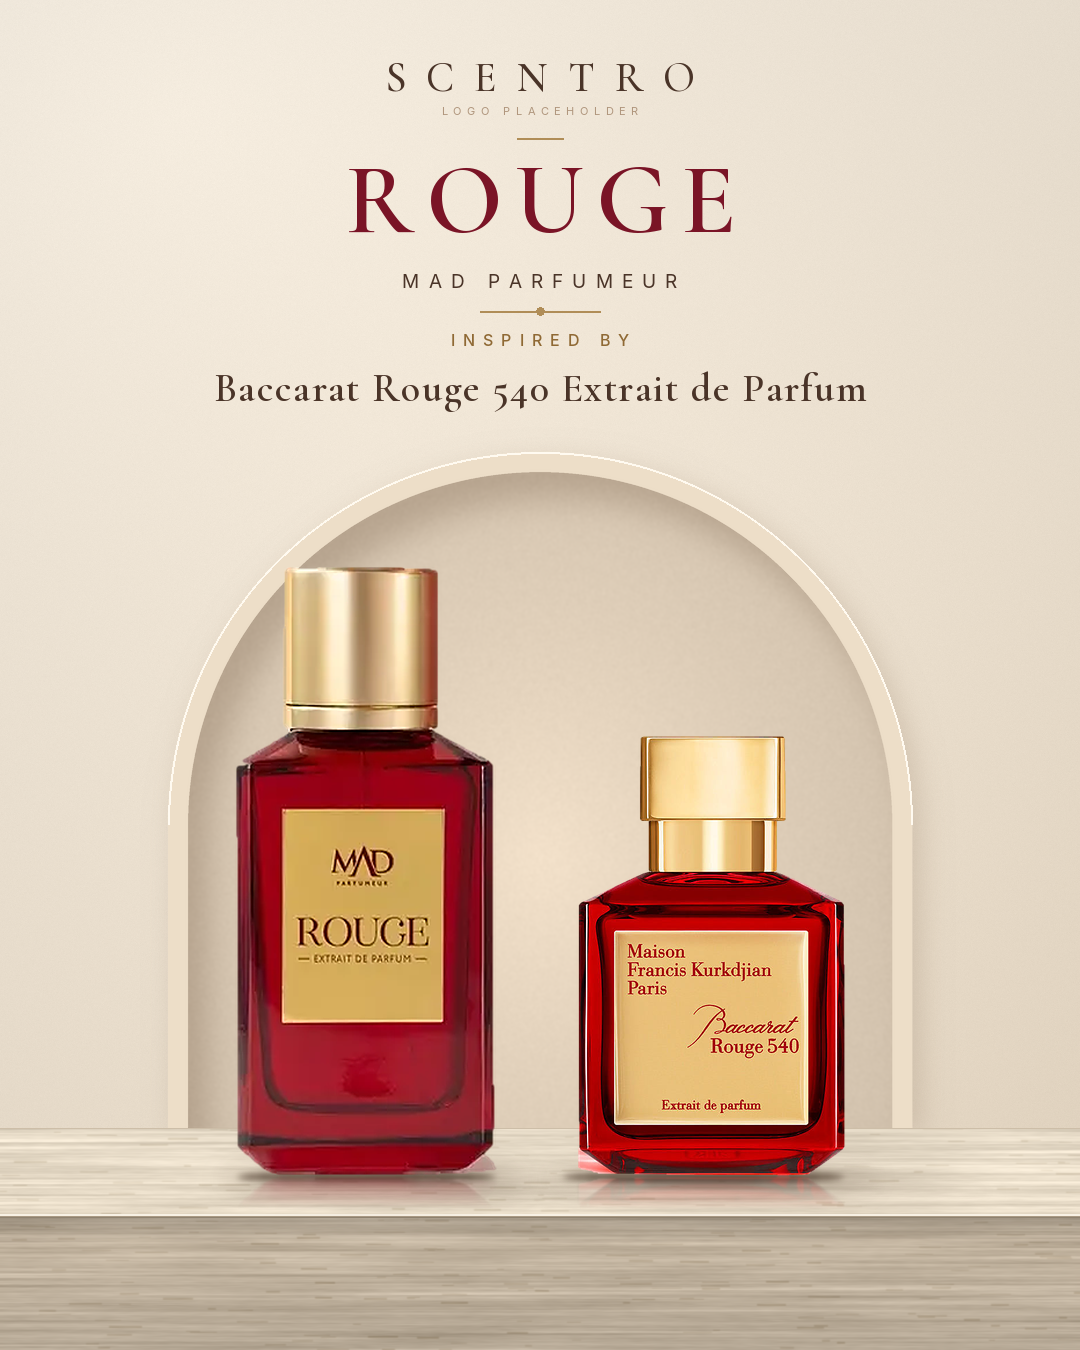
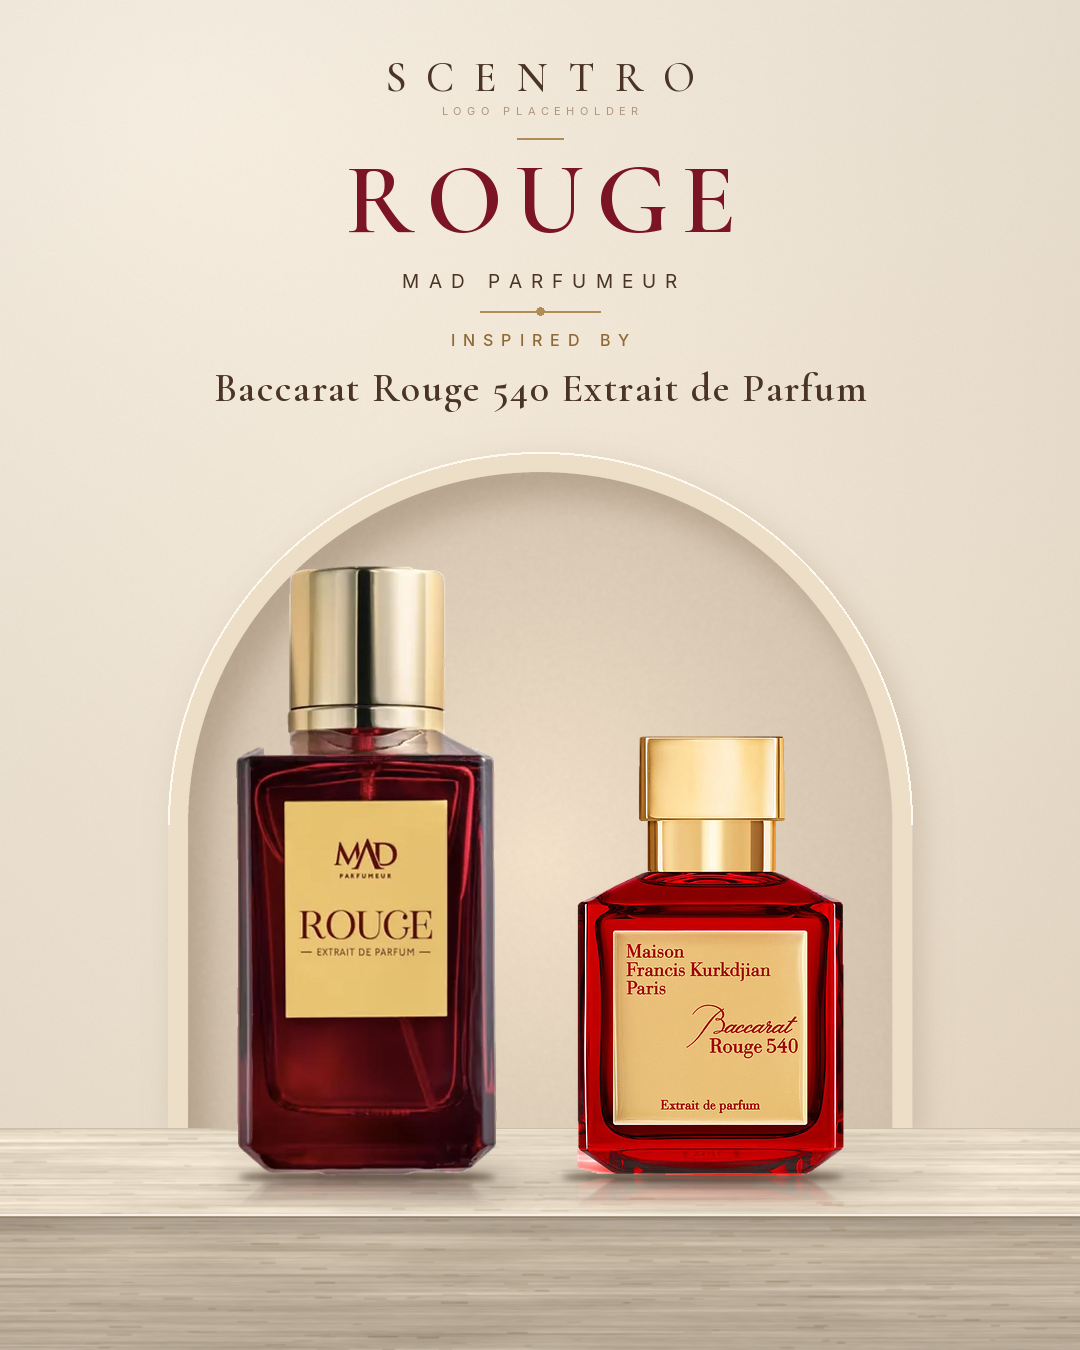
Use Fragrantica bottle photos for MAD Rouge/Treasure/Marjorie/Dreamlight; edge-based cutouts; Marjorie standard + framed variants
Claude-Session: https://claude.ai/code/session_01UApyk7Kdwc7MEVpfJtnJsr

diff --git a/scentro/build_slide.py b/scentro/build_slide.py
@@ -27,12 +27,12 @@ def S(title, mad, orig, inspired, title_rgb, bg_a, bg_b, niche_rgb, mad_h=640, o
 SLIDES = {
     1: S('ROUGE', 'mad_rouge', 'brx540_extrait', 'Baccarat Rouge 540 Extrait de Parfum', (122, 20, 38), (245, 237, 224), (231, 217, 197), (226, 209, 187), mad_h=610, orig_h=440, name_size=40),
     2: S('TREASURE', 'mad_treasure', 'naxos', 'Naxos', (142, 98, 34), (246, 238, 220), (233, 215, 186), (229, 208, 176), mad_h=600, orig_h=470, stone=(4, 0, -6)),
-    3: S('MARJORIE', 'mad_marjorie', 'guidance', 'Guidance', (148, 86, 92), (247, 240, 231), (237, 221, 213), (230, 208, 198), mad_h=600, orig_h=395, stone=(2, -2, -2),
-          photo=dict(src='assets/source/mad_marjorie_original.webp', crop=(245, 105, 595, 630), size=(450, 675))),
+    3: S('MARJORIE', 'mad_marjorie', 'guidance', 'Guidance', (148, 86, 92), (247, 240, 231), (237, 221, 213), (230, 208, 198), mad_h=610, orig_h=380, stone=(2, -2, -2),),
     4: S('EFFECT', 'mad_effect', 'side_effect', 'Side Effect', (104, 30, 38), (244, 235, 222), (229, 212, 194), (224, 202, 182), mad_h=610, orig_h=450),
     5: S('DREAMLIGHT', 'mad_dreamlight', 'attrape_reves', 'Attrape-Rêves', (126, 88, 130), (248, 242, 240), (236, 225, 232), (230, 214, 222), mad_h=560, orig_h=450, stone=(0, -2, 3)),
     6: S('FORZA', 'mad_forza', 'alexandria_ii', 'Alexandria II', (106, 74, 42), (245, 237, 223), (230, 215, 191), (226, 207, 178), mad_h=500, orig_h=470, stone=(2, 0, -3)),
 }
+SLIDES[31] = dict(SLIDES[3], photo=dict(src='assets/source/mad_marjorie_original.webp', crop=(245, 105, 595, 630), size=(450, 675)), mad_h=600, orig_h=395, out='output/slide3_marjorie_framed.png')
 
 rng = np.random.default_rng(11)
 
@@ -254,7 +254,7 @@ def photo_panel(s):
 # ---- build -----------------------------------------------------------------------------------------
 def build(n):
     s = SLIDES[n]
-    s['out'] = s['out'].format(n=n)
+    s = dict(s); s['out'] = s['out'].format(n=n)
     img = background(s)
     if not s['photo']:
         niche(img, s)

diff --git a/scentro/cutout_edge.py b/scentro/cutout_edge.py
@@ -1,0 +1,18 @@
+"""Edge-based cutout for bottles on plain backgrounds with soft cast shadows: sharp edges outline the bottle, soft shadows are ignored.
+Usage: cutout_edge.py in out lo hi [close_iter]"""
+import sys, numpy as np, cv2
+from PIL import Image
+from scipy import ndimage as ndi
+src, dst = sys.argv[1], sys.argv[2]; lo, hi = int(sys.argv[3]), int(sys.argv[4]); ci = int(sys.argv[5]) if len(sys.argv) > 5 else 9
+im = np.array(Image.open(src).convert('RGB')); g = cv2.cvtColor(im, cv2.COLOR_RGB2GRAY)
+g = cv2.GaussianBlur(g, (0, 0), 1.2)
+e = cv2.Canny(g, lo, hi) > 0
+e = ndi.binary_dilation(e, iterations=2)
+e = ndi.binary_closing(e, structure=np.ones((3, 3)), iterations=ci)
+m = ndi.binary_fill_holes(e)
+lab, n = ndi.label(m); sz = ndi.sum(m, lab, range(1, n + 1)); m = lab == 1 + int(np.argmax(sz))
+m = ndi.binary_erosion(m, iterations=3); m = ndi.binary_opening(m, structure=np.ones((3, 3)), iterations=6)
+m = ndi.binary_dilation(m, iterations=1)
+a = cv2.GaussianBlur(m.astype(np.float32), (0, 0), 1.0); a = np.clip((a - .25) / .5, 0, 1)
+ys, xs = np.where(a > .02); rgba = np.dstack([im, (a * 255).astype(np.uint8)])
+Image.fromarray(rgba).crop((xs.min(), ys.min(), xs.max() + 1, ys.max() + 1)).save(dst); print(dst, xs.max() - xs.min() + 1, ys.max() - ys.min() + 1)

diff --git a/scentro/README.md b/scentro/README.md
@@ -5,5 +5,6 @@
 - Fonts: Cormorant Garamond (OFL) + Inter.
 
 ## Original-bottle photo sources (commercial-reuse licence NOT verified)
-Rouge: zgoperfumery.com · Naxos: shoprescuespa.com · Guidance: parfumexquis.us · Side Effect: 4doutfitters.com ·
+MAD bottles (Rouge, Treasure, Marjorie, Dreamlight): fragrantica.com ids 118803, 119723, 119716, 118790 (bottle-only photos, edge-based cutout via cutout_edge.py). Effect + Forza: supplied photos.
+Originals - Rouge: zgoperfumery.com · Naxos: shoprescuespa.com · Guidance: parfumexquis.us · Side Effect: 4doutfitters.com ·
 Attrape-Rêves: fragrantica.com (id 51016) · Alexandria II: perfumeforever.com (matches Fragrantica id 17786 design)
